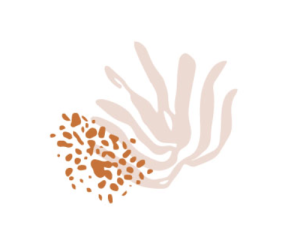
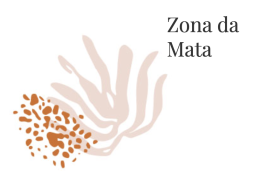
lanchonete box tweaks

Changed region(s): [[0.03, 0.1667, 0.809, 0.9444], [0.6292, 0.0833, 0.8989, 0.1944]]

diff --git a/static/style.css b/static/style.css
@@ -195,7 +195,7 @@ menu .list-project a {
 .project-boxes {
     display: flex;
     flex-wrap: wrap;
-    justify-content: space-around;
+    justify-content: flex-start;
     align-content: space-around;
 }
 

diff --git a/content/posts/lanchonete/16-occupation-sao-joao-garden.md b/content/posts/lanchonete/16-occupation-sao-joao-garden.md
@@ -1,0 +1,7 @@
+---
+title: 'Occupation São João Garden-making workshop w/ Jakub Szczęsny & Cidades Sem Fome'
+order: 16
+image:
+  src: /uploads/16-lanchonete-guiahortas.png
+external_url: https://lanchonete.tllester.info/lanchonete/pdfs/GuiaHortas.pdf
+---

diff --git a/content/posts/lanchonete/17-lanchonete-zine.md b/content/posts/lanchonete/17-lanchonete-zine.md
@@ -1,0 +1,7 @@
+---
+title: 'TIJUANA book fair Lanchonete zine'
+order: 17
+image:
+  src: /uploads/17-lanchonete-zine.png
+external_url: https://lanchonete.tllester.info/lanchonete/pdfs/Final_Menu_Zine_no1.pdf
+---

diff --git a/content/posts/lanchonete/14-routledge-chapter.md b/content/posts/lanchonete/14-routledge-chapter.md
@@ -1,7 +1,7 @@
 ---
-title: Routledge Chapter
+title: Lanchonete chapter 
 order: 14
 image:
   src: /uploads/contemporary-perspectives-art-international-development.jpg
-external_url: /Contemporary-Perspectives-on-Art-and-International-Development-Chapter-8-Polly-Stupples- Katerina-Teaiwa.pdf
+external_url: https://lanchonete.tllester.info/lanchonete/pdfs/Contemporary-Perspectives-on-Art-and-International-Development-Chapter-8-Polly-Stupples-Katerina-Teaiwa.pdf
 ---

diff --git a/content/posts/lanchonete/11-pssp.md b/content/posts/lanchonete/11-pssp.md
@@ -1,5 +1,5 @@
 ---
-title: Publication Studio 
+title: 'Publication Studio: São Paulo'
 order: 11
 image:
   src: /uploads/11-lanchonete-pssp.png

diff --git a/content/posts/lanchonete/12-zonadamata.md b/content/posts/lanchonete/12-zonadamata.md
@@ -1,5 +1,5 @@
 ---
-title: zona da mata
+title: Zona da Mata
 order: 12
 image:
   src: /uploads/08-lanchonete.png